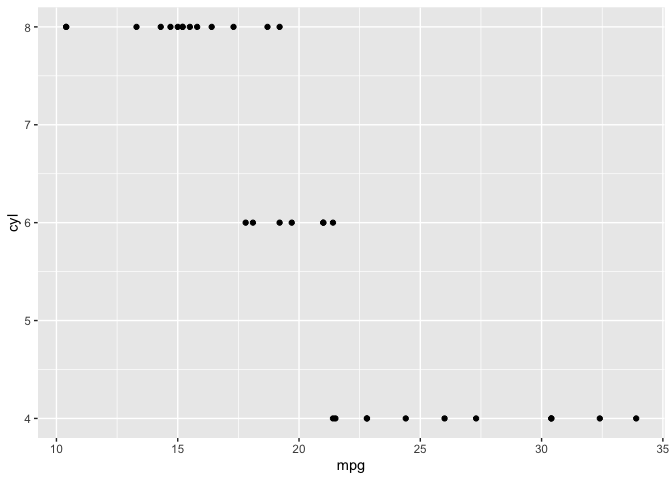
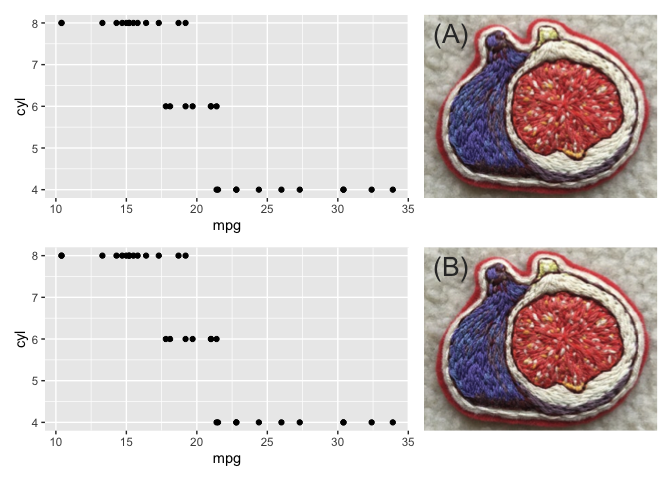
rename functions and update readme

diff --git a/README.md b/README.md
@@ -34,11 +34,13 @@ library(ggplot2)
 library(patchwork)
 ```
 
-What is special about using `README.Rmd` instead of just `README.md`?
-You can include R chunks like so:
+To use images inside of a patchwork object, they need to be converted to
+a `{ggplot}` object via `fig()`. Once converted, you can assemble the
+`{patchwork}` as you would otherwise with `+ / - * &` or
+`patchwork::wrap_plots()`.
 
 ``` r
-img <- img2plot("data/fig.png")
+img <- fig("data/fig.png")
 plt <- ggplot(mtcars) + 
   aes(mpg, cyl) + 
   geom_point()
@@ -47,7 +49,7 @@ pat <- patchwork::wrap_plots(img, plt)
 pat
 ```
 
-<img src="man/figures/README-cars-1.png" width="100%" />
+<img src="man/figures/README-figpatch-1.png" width="100%" />
 
 Depending on how you want things labelled, the patchwork labelling not
 arrange things how you would like.
@@ -62,7 +64,7 @@ pat + plot_annotation(tag_levels = "A",
 <img src="man/figures/README-unnamed-chunk-2-1.png" width="100%" />
 
 ``` r
-wrap_plots(list(figpatch::plotlab(img, "(A)", 
+wrap_plots(list(figpatch::figlab(img, "(A)", 
                              fontsize = 16, 
                              colour = "gray30"), plt))
 ```
@@ -70,28 +72,11 @@ wrap_plots(list(figpatch::plotlab(img, "(A)",
 <img src="man/figures/README-unnamed-chunk-3-1.png" width="100%" />
 
 ``` r
-pat <- wrap_plots(list(plt, plotlab(img, "(A)", colour = "gray20"),plt,  plotlab(img, "(B)", colour = "gray20")))
-pat$patches$plots
-#> [[1]]
-```
-
-<img src="man/figures/README-unnamed-chunk-3-2.png" width="100%" />
-
-    #> 
-    #> [[2]]
-
-<img src="man/figures/README-unnamed-chunk-3-3.png" width="100%" />
-
-    #> 
-    #> [[3]]
-
-<img src="man/figures/README-unnamed-chunk-3-4.png" width="100%" />
-
-``` r
+pat <- wrap_plots(list(plt, figlab(img, "(A)", colour = "gray20"),plt,  figlab(img, "(B)", colour = "gray20")))
 pat
 ```
 
-<img src="man/figures/README-unnamed-chunk-3-5.png" width="100%" />
+<img src="man/figures/README-unnamed-chunk-3-2.png" width="100%" />
 
 ``` r
 wrap_plots(list(img, img, img, img, img, img, img, img, img), nrow = 3) + 
